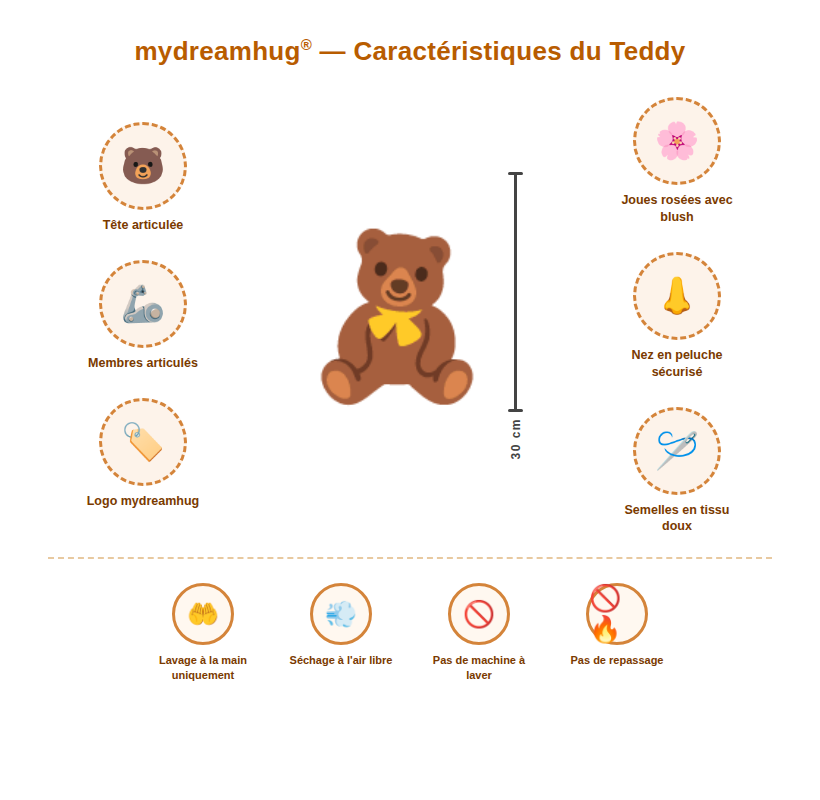
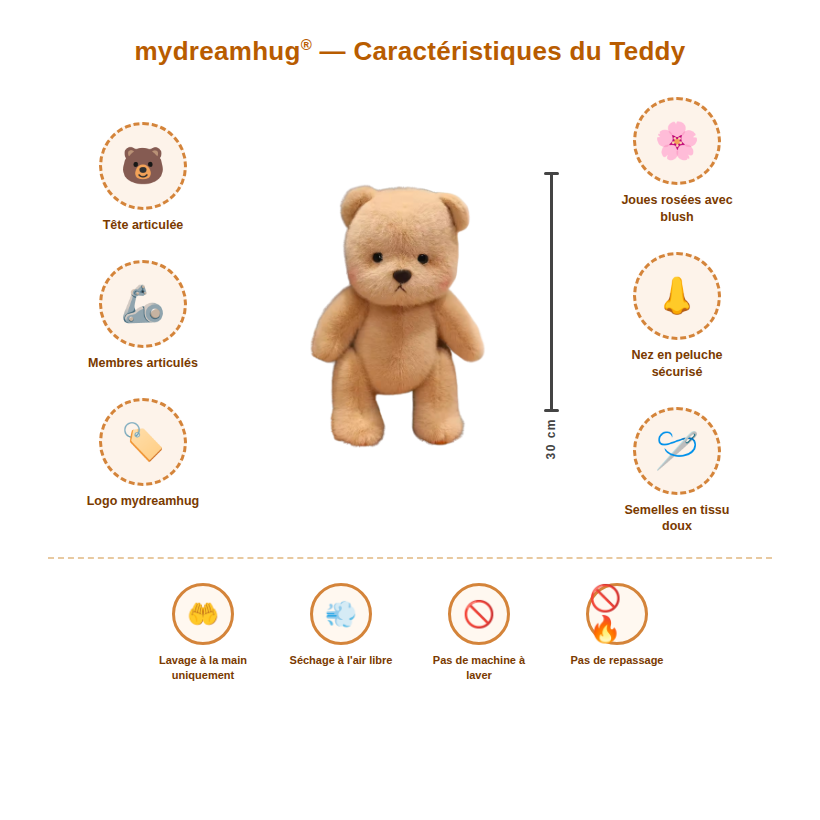
Update infographic with real teddy photo
Replace emoji bear with actual product photo in the mydreamhug features infographic.

Claude-Session: https://claude.ai/code/session_01RqJHoCEHvbRMdaL87uveMi

diff --git a/public/infographic.html b/public/infographic.html
@@ -64,7 +64,7 @@ body{background:#fff;font-family:'Segoe UI',Arial,sans-serif;width:820px;}
     <!-- CENTER BEAR -->
     <div class="center-bear">
       <div class="ruler-wrap">
-        <span class="bear-svg">🧸</span>
+        <img src="/teddy-beige.png" alt="Teddy mydreamhug" style="width:270px;object-fit:contain;"/>
         <div class="ruler">
           <div class="ruler-body"></div>
           <span class="ruler-lbl">30 cm</span>
